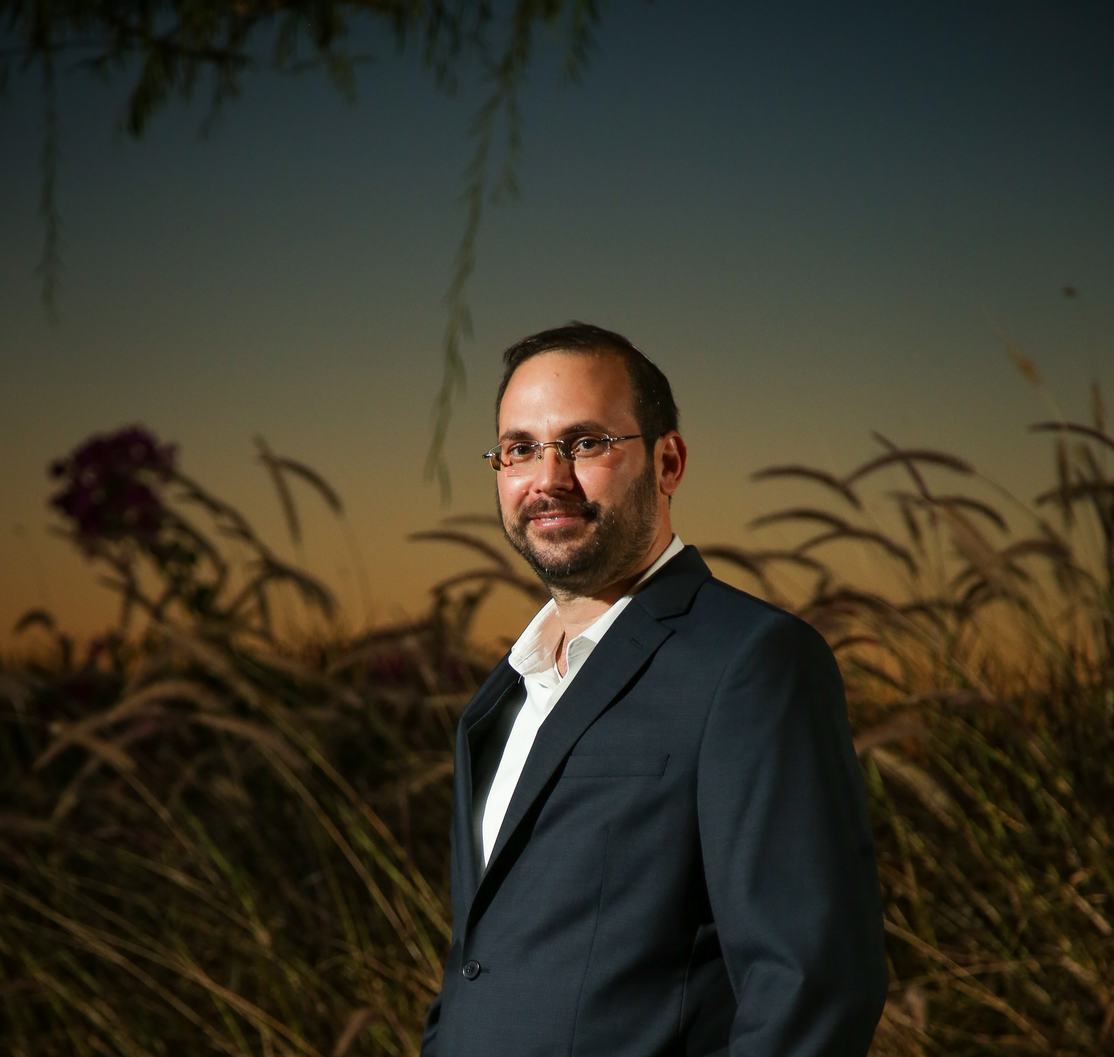
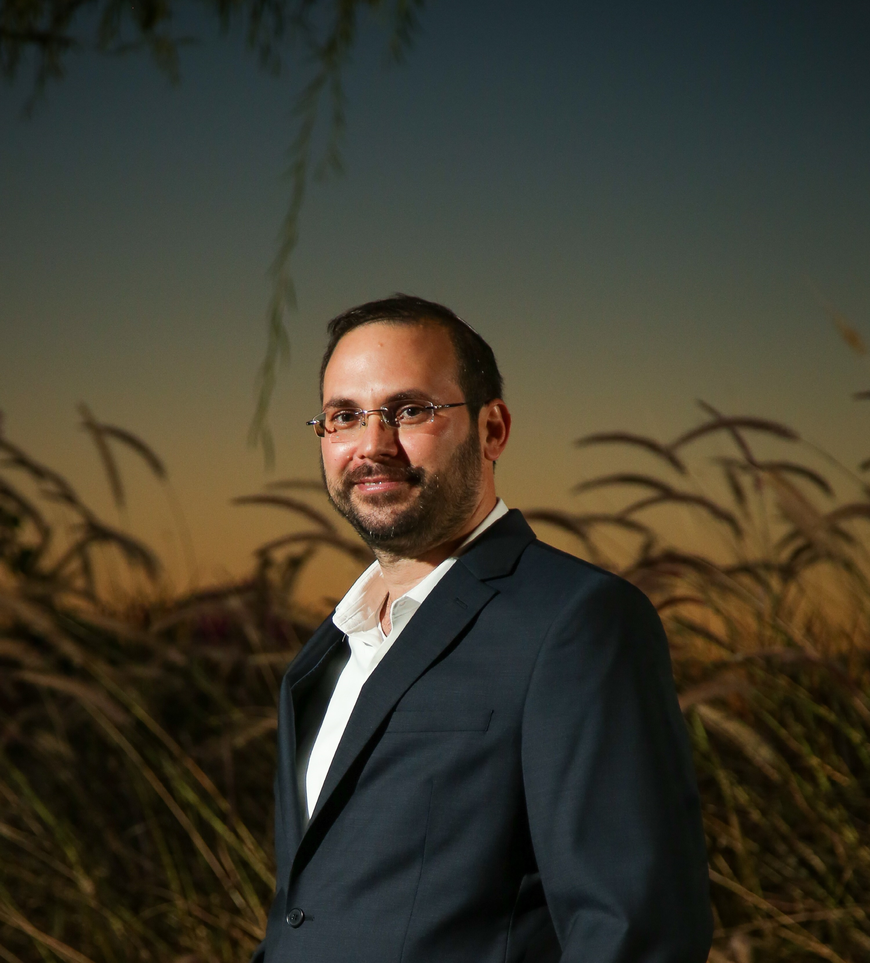
Fix typo

diff --git a/index.html b/index.html
@@ -150,7 +150,7 @@ color: #f1f1f1;
 
 <div id="About" class="tabcontent">
     <h1>Shai Shlomai</h1>
-    <img src="profile pic.jpg" alt="Shai" style="width:384px;height:364px;">
+    <img src="profile pic.jpg" alt="Shai" style="width:300px;height:332px;">
 <!--    <img src="profile pic.jpg" alt="Shai" style="width:3840px;height:3644px;">-->
     <p>A graduate of a master's degree in computer science (thesis on artificial intelligence).</p>
     <p>During the past ten years, I have worked in the fields of algorithmics and artificial intelligence (high-tech and military/defense industries).</p>
